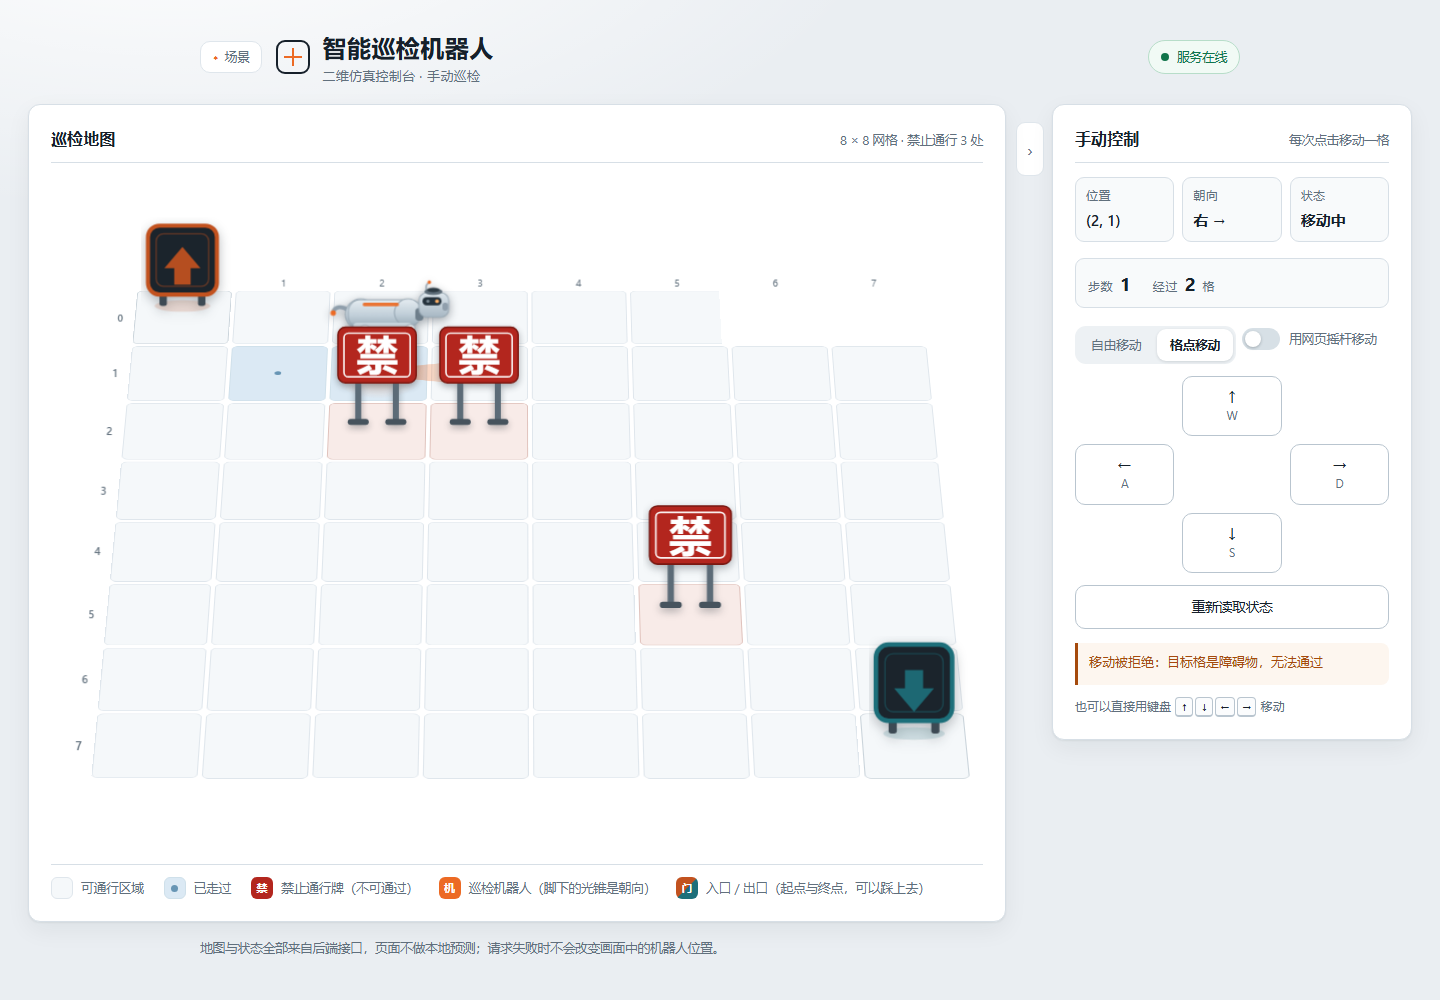
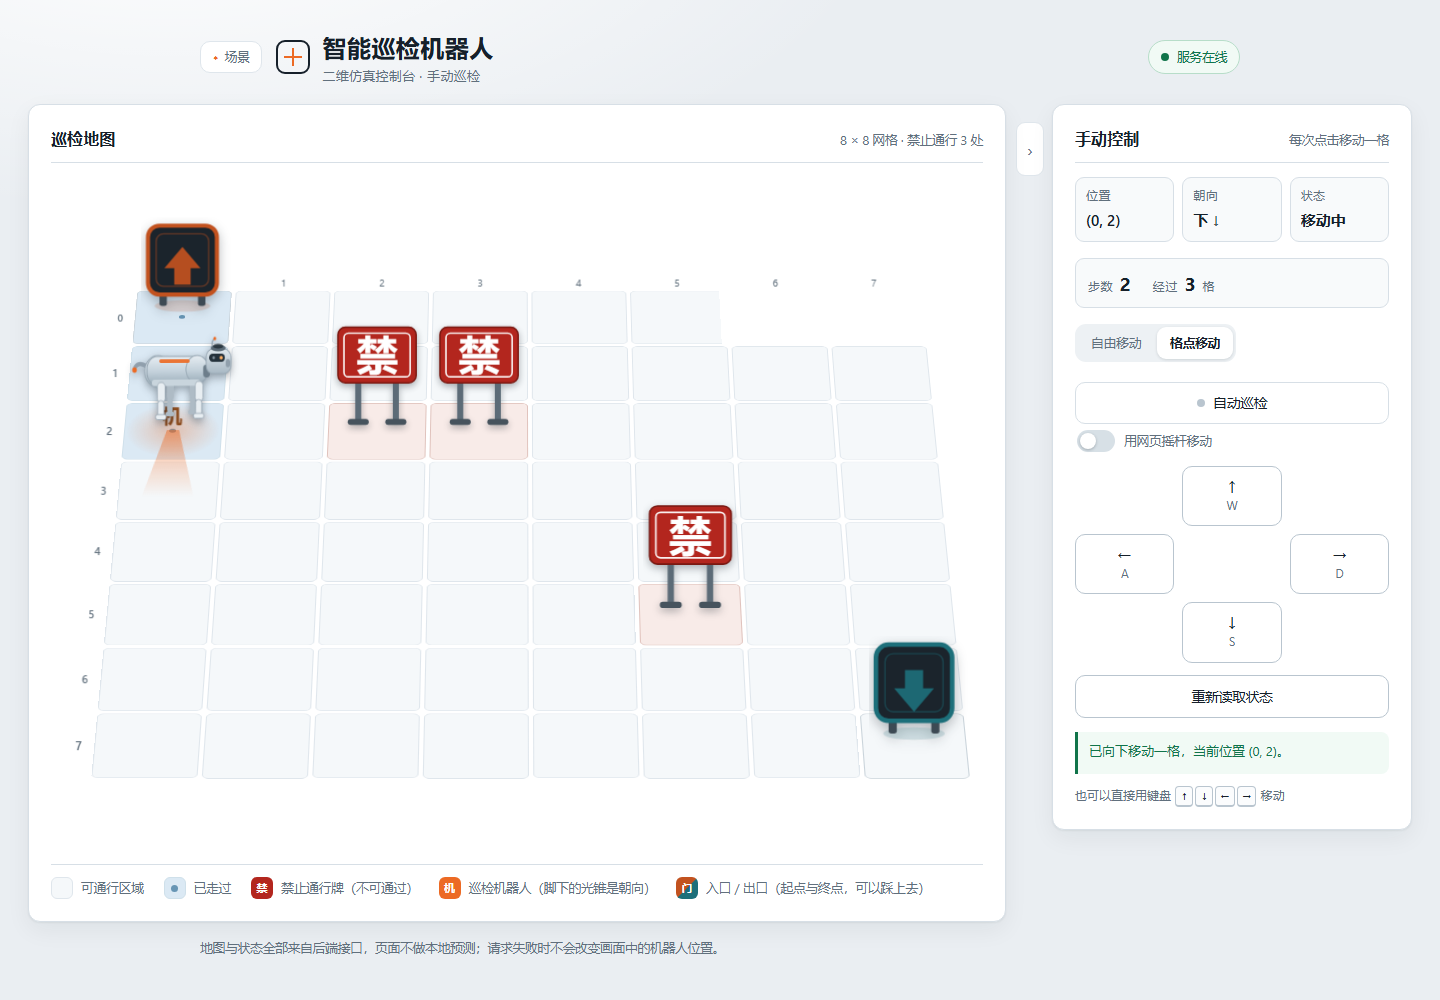
feat(frontend): 新增自动巡检，按蛇形路线自动走完整张地图

diff --git a/frontend/app.js b/frontend/app.js
@@ -662,6 +662,7 @@
     let moving = false;
     const dir = heldVector();
     if (dir) {
+      if (patrol.on) stopPatrol("已停止自动巡检：转手动控制。");
       actor.path.length = 0;
       moving = nudge(dir.x * FREE_SPEED * dt, dir.y * FREE_SPEED * dt);
     } else if (actor.path.length) {
@@ -679,9 +680,17 @@
       applyActorTransform();
       applyActorLook();
       updateFacts();
-      setFeedback("已到达 (" + actor.x.toFixed(1) + ", " + actor.y.toFixed(1) + ")。", "success");
+      const arrived = "(" + actor.x.toFixed(1) + ", " + actor.y.toFixed(1) + ")";
+      if (patrol.on) {
+        setFeedback("巡检中 " + patrol.done + "/" + patrol.total + "：已到 " + arrived, "success");
+      } else {
+        setFeedback("已到达 " + arrived + "。", "success");
+      }
       actor.target = null;
     }
+
+    // 自动巡检：静止且没有目标时，取下一个点位
+    if (patrol.on && !moving && !actor.target) patrolNext();
 
     if (moving) {
       applyActorTransform();
@@ -751,8 +760,10 @@
   let pressPoint = null;
 
   /** 点地图：走过去。目标点落在格子内任意位置，绕障碍用 A*。 */
-  function walkTo(cellX, cellY, offsetX, offsetY) {
+  function walkTo(cellX, cellY, offsetX, offsetY, options) {
     if (!currentState) return;
+    // 手动点地图说明用户要自己开，先把自动巡检停掉
+    if (patrol.on && !(options && options.silent)) stopPatrol("已停止自动巡检：转手动控制。");
     if (isBlockedCell(cellX, cellY)) {
       setFeedback("那一格立着「禁止通行」牌，站不了人。", "warn");
       return;
@@ -772,7 +783,103 @@
     actor.target = target;
     setWalking(true);
     if (actor.node) actor.node.classList.add("is-free");
-    setFeedback("正在走向 (" + target.x.toFixed(1) + ", " + target.y.toFixed(1) + ")…");
+    if (!(options && options.silent)) {
+      setFeedback("正在走向 (" + target.x.toFixed(1) + ", " + target.y.toFixed(1) + ")…");
+    }
+  }
+
+  /* ---------------------------------------------------------------- 自动巡检 */
+
+  const patrolBtn = document.getElementById("patrol-toggle");
+  const patrolLabel = document.getElementById("patrol-label");
+
+  const patrol = { on: false, queue: [], total: 0, done: 0, startedAt: 0 };
+
+  /**
+   * 巡检点位：蛇形扫过整张地图，每两格取一点，跳过装了禁止通行牌的格子。
+   * 点位密度刻意比格子稀疏，走起来像在巡视，而不是逐格扫描。
+   */
+  function patrolRoute(state) {
+    const points = [];
+    const width = state.grid.width;
+    const height = state.grid.height;
+    let rowIndex = 0;
+    for (let y = 0; y < height; y += 2, rowIndex += 1) {
+      const row = [];
+      for (let x = 0; x < width; x += 2) {
+        if (!isBlockedCell(x, y)) row.push(x);
+      }
+      if (rowIndex % 2 === 1) row.reverse();
+      row.forEach((x) => points.push({ x: x, y: y }));
+    }
+    return points;
+  }
+
+  function setPatrolButton(on) {
+    if (!patrolBtn) return;
+    patrolBtn.classList.toggle("is-on", on);
+    patrolBtn.setAttribute("aria-pressed", String(on));
+    if (patrolLabel) patrolLabel.textContent = on ? "停止巡检" : "自动巡检";
+  }
+
+  /** 取下一个点位；走不到就跳过，全部走完就收尾。 */
+  function patrolNext() {
+    if (!patrol.on) return;
+    if (!patrol.queue.length) {
+      finishPatrol();
+      return;
+    }
+    const point = patrol.queue.shift();
+    walkTo(point.x, point.y, 0.5, 0.5, { silent: true });
+    if (actor.target) {
+      patrol.done += 1;
+      setFeedback("巡检中 " + patrol.done + "/" + patrol.total + "：前往第 " + patrol.done + " 个点位…");
+    } else {
+      // 这一格被围住，跳过继续
+      patrolNext();
+    }
+  }
+
+  function finishPatrol() {
+    const seconds = ((performance.now() - patrol.startedAt) / 1000).toFixed(1);
+    const total = patrol.total;
+    patrol.on = false;
+    patrol.queue = [];
+    setPatrolButton(false);
+    setFeedback("巡检完成：" + total + " 个点位，用时 " + seconds + " 秒。", "success");
+  }
+
+  function startPatrol() {
+    if (!currentState || patrol.on) return;
+    if (mode !== "free") setMode("free");
+    const route = patrolRoute(currentState);
+    if (!route.length) {
+      setFeedback("没有可以巡检的格子。", "warn");
+      return;
+    }
+    heldKeys.clear();
+    actor.path.length = 0;
+    actor.target = null;
+    patrol.queue = route;
+    patrol.total = route.length;
+    patrol.done = 0;
+    patrol.startedAt = performance.now();
+    patrol.on = true;
+    setPatrolButton(true);
+    startLoop();
+    setFeedback("自动巡检开始：" + patrol.total + " 个点位，随时点地图或按方向键可接管。");
+    patrolNext();
+  }
+
+  function stopPatrol(reason) {
+    if (!patrol.on) return;
+    patrol.on = false;
+    patrol.queue = [];
+    actor.target = null;
+    actor.path.length = 0;
+    setWalking(false);
+    setPatrolButton(false);
+    if (reason) setFeedback(reason, "warn");
   }
 
   /* ---------------------------------------------------------------- 渲染 */
@@ -926,6 +1033,7 @@
     });
     // 「重新读取状态」是加载失败后的重试入口，只跟着请求在飞时禁用
     els.reload.disabled = busy;
+    patrolBtn.disabled = busy || noState;
     els.board.setAttribute("aria-busy", busy ? "true" : "false");
   }
 
@@ -935,6 +1043,7 @@
   }
 
   function setMode(next) {
+    stopPatrol("已停止自动巡检：切换了控制模式。");
     mode = next;
     els.modeBtns.forEach((btn) => {
       const on = btn.dataset.mode === next;
@@ -976,6 +1085,8 @@
   async function loadState(options) {
     const initial = Boolean(options && options.initial);
     if (busy) return;
+    // 重新读数会让位置跳变，先把自动巡检停掉
+    stopPatrol("已停止自动巡检：状态被重新读取。");
 
     busy = true;
     syncControls();
@@ -1110,6 +1221,7 @@
   }
 
   function openSetup() {
+    stopPatrol("已停止自动巡检：重新选择了场景。");
     els.start.hidden = false;
     started = false;
     setWalking(false);
@@ -1388,6 +1500,13 @@
     els.modeBtns.forEach((btn) => {
       btn.addEventListener("click", () => setMode(btn.dataset.mode));
     });
+
+    if (patrolBtn) {
+      patrolBtn.addEventListener("click", () => {
+        if (patrol.on) stopPatrol("已停止自动巡检。");
+        else startPatrol();
+      });
+    }
 
     // 点地图：自由模式下走过去
     // 地图上按住就能走：按下立刻出发，按住拖动时换成指针下面的那个格子

diff --git a/frontend/styles.css b/frontend/styles.css
@@ -1579,3 +1579,55 @@ kbd {
   color: #fff;
   font-size: 10px;
 }
+
+/* 自动巡检按钮 */
+.patrol-btn {
+  display: flex;
+  align-items: center;
+  justify-content: center;
+  gap: 8px;
+  width: 100%;
+  margin-top: 8px;
+  padding: 9px 12px;
+  border: 1px solid var(--line);
+  border-radius: 10px;
+  background: var(--panel);
+  color: var(--ink);
+  font: inherit;
+  font-size: 13.5px;
+  cursor: pointer;
+  transition: border-color 160ms ease, background 160ms ease, color 160ms ease;
+}
+
+.patrol-btn:hover:not(:disabled) {
+  border-color: var(--line-strong);
+}
+
+.patrol-btn:focus-visible {
+  outline: 3px solid rgba(236, 106, 36, 0.45);
+  outline-offset: 2px;
+}
+
+.patrol-btn:disabled {
+  opacity: 0.5;
+  cursor: not-allowed;
+}
+
+.patrol-dot {
+  width: 8px;
+  height: 8px;
+  border-radius: 50%;
+  background: var(--line-strong);
+  transition: background 160ms ease, box-shadow 160ms ease;
+}
+
+.patrol-btn.is-on {
+  border-color: var(--robot);
+  background: rgba(236, 106, 36, 0.08);
+  color: #b04f18;
+}
+
+.patrol-btn.is-on .patrol-dot {
+  background: var(--robot);
+  box-shadow: 0 0 0 4px rgba(236, 106, 36, 0.16);
+}

diff --git a/frontend/index.html b/frontend/index.html
@@ -103,6 +103,11 @@
           <button class="mode-btn" type="button" data-mode="grid" aria-pressed="false">格点移动</button>
         </div>
 
+        <button class="patrol-btn" id="patrol-toggle" type="button" aria-pressed="false">
+          <span class="patrol-dot" aria-hidden="true"></span>
+          <span id="patrol-label">自动巡检</span>
+        </button>
+
         <button class="switch" id="stick-toggle" type="button" role="switch" aria-checked="false">
           <span class="switch-track" aria-hidden="true"><span class="switch-thumb"></span></span>
           <span class="switch-text">用网页摇杆移动</span>

diff --git a/docs/05_设计说明.md b/docs/05_设计说明.md
@@ -116,6 +116,18 @@ if self.status == "moving" and time.monotonic() - self.last_move_at > MOVING_WIN
 
 摇杆是纯指针事件实现：按下时记录触点，移动时算出相对圆心的偏移（死区 0.22，剩余量映射成 0.35–1.0 的速度系数），松手归零；它作用于同一个方向向量，所以和键盘不冲突。
 
+### 5.3 自动巡检
+
+自动巡检让机器人按固定路线自己走一遍，用来演示「不需要人手点也能跑完整场」。
+
+- **点位生成**：`patrolRoute()` 按行扫描，每两格取一个点，相邻行反向排列（蛇形），并跳过装了禁止通行牌的格子；8 × 8 地图上是 15 个点。密度是刻意稀疏的——逐格扫描看起来像扫雷，隔行取点更像巡视。
+- **推进方式**：`patrolNext()` 取队首点位调用 `walkTo()`，路径仍走 A\* + 拉直，巡检和手动点击用的是同一套避障，不存在两套逻辑。
+- **状态机**：`patrol.on` 为真时，`frame()` 在「静止且没有目标」时自动取下一个点位；到达提示改成「巡检中 n/总数」，避免和手动到达提示混淆。
+- **接管即停**：`walkTo()` 入口判断这次调用是不是用户发起的；按键输入在 `frame()` 里检测到方向向量时中断；`setMode()` 切换模式也中断——三条路径都收敛到 `stopPatrol()`，不会出现「手动操作了但机器人还在巡检」。
+- **收尾**：队列空时 `finishPatrol()` 统计用时并复位按钮状态。
+
+自动巡检是纯前端状态机，不新增接口、不改后端契约。
+
 ## 6. 运动规划与碰撞
 
 ### 6.1 路径

diff --git a/docs/user-guide.md b/docs/user-guide.md
@@ -31,7 +31,8 @@
 3. **自由移动**：在地图上**按住**就出发，松手就到（也可以按住不放一路拖，机器人会跟着指针换目标，拖过哪格就走哪格）。点格子中间就站到格子中间，点靠边的位置就停在靠边的地方，不必落在格心。也可以按住 `W` `A` `S` `D` 或方向键连续走，松手就停。
 4. **格点移动**：点右边的 **W / A / S / D** 按钮（箭头是朝向提示），每次走一格；也可以用键盘 `W` `A` `S` `D` 或方向键，效果一样。用 `Tab` 可以依次聚焦到按钮，回车或空格触发。
 5. 点 **重新读取状态** 会重新向后端要一次完整状态，界面以后端返回的为准；同时会**清空本轮的巡检痕迹**（步数和「经过」归零，蓝色格子重新从机器人脚下那格开始算）。
-6. 请求发出到返回之间，四个方向按钮和「重新读取状态」会变灰不可点，避免连点造成重复指令。
+6. **自动巡检**：点右栏的「自动巡检」，机器人会自己按蛇形路线把整张地图走一遍，面板上显示「巡检中 3/15」。巡检途中**点地图、按方向键或 WASD、切换模式**都会立刻接管并停止巡检；走完后提示「巡检完成：15 个点位，用时 xx 秒」。自动巡检只在自由移动模式下工作。
+7. 请求发出到返回之间，四个方向按钮和「重新读取状态」会变灰不可点，避免连点造成重复指令。
 
 ## 三、用摇杆走
 

diff --git a/README.md b/README.md
@@ -13,7 +13,7 @@
 start.bat       # Windows
 ```
 
-启动后在浏览器打开 <http://localhost:8080/>（端口被占用时脚本会自动顺延并打印实际地址）。页面先弹开场选择，选好地图与机器人点「开始巡检」进入：可以用方向键、WASD、网页摇杆或直接点地图移动，右侧面板实时显示坐标、朝向与运行状态。
+启动后在浏览器打开 <http://localhost:8080/>（端口被占用时脚本会自动顺延并打印实际地址）。页面先弹开场选择，选好地图与机器人点「开始巡检」进入：可以用方向键、WASD、网页摇杆或直接点地图移动，右侧面板实时显示坐标、朝向与运行状态；点「自动巡检」会按蛇形路线自动走完整张地图，随时点地图或按方向键即可接管。
 
 演示的是二维仿真，不是真机；地图与障碍物来自后端接口，页面不做本地预测。
 
